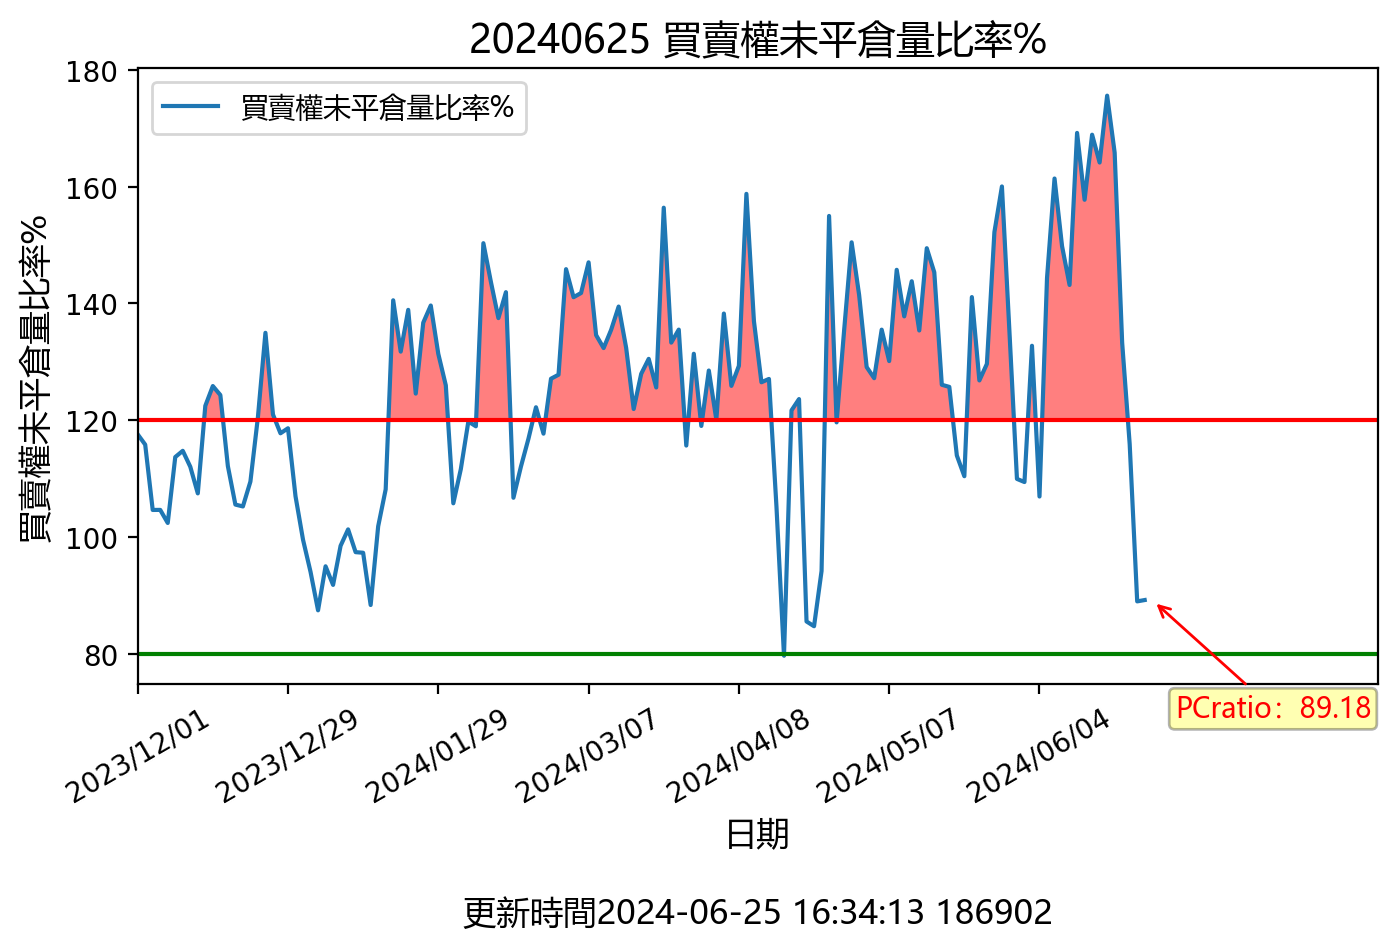
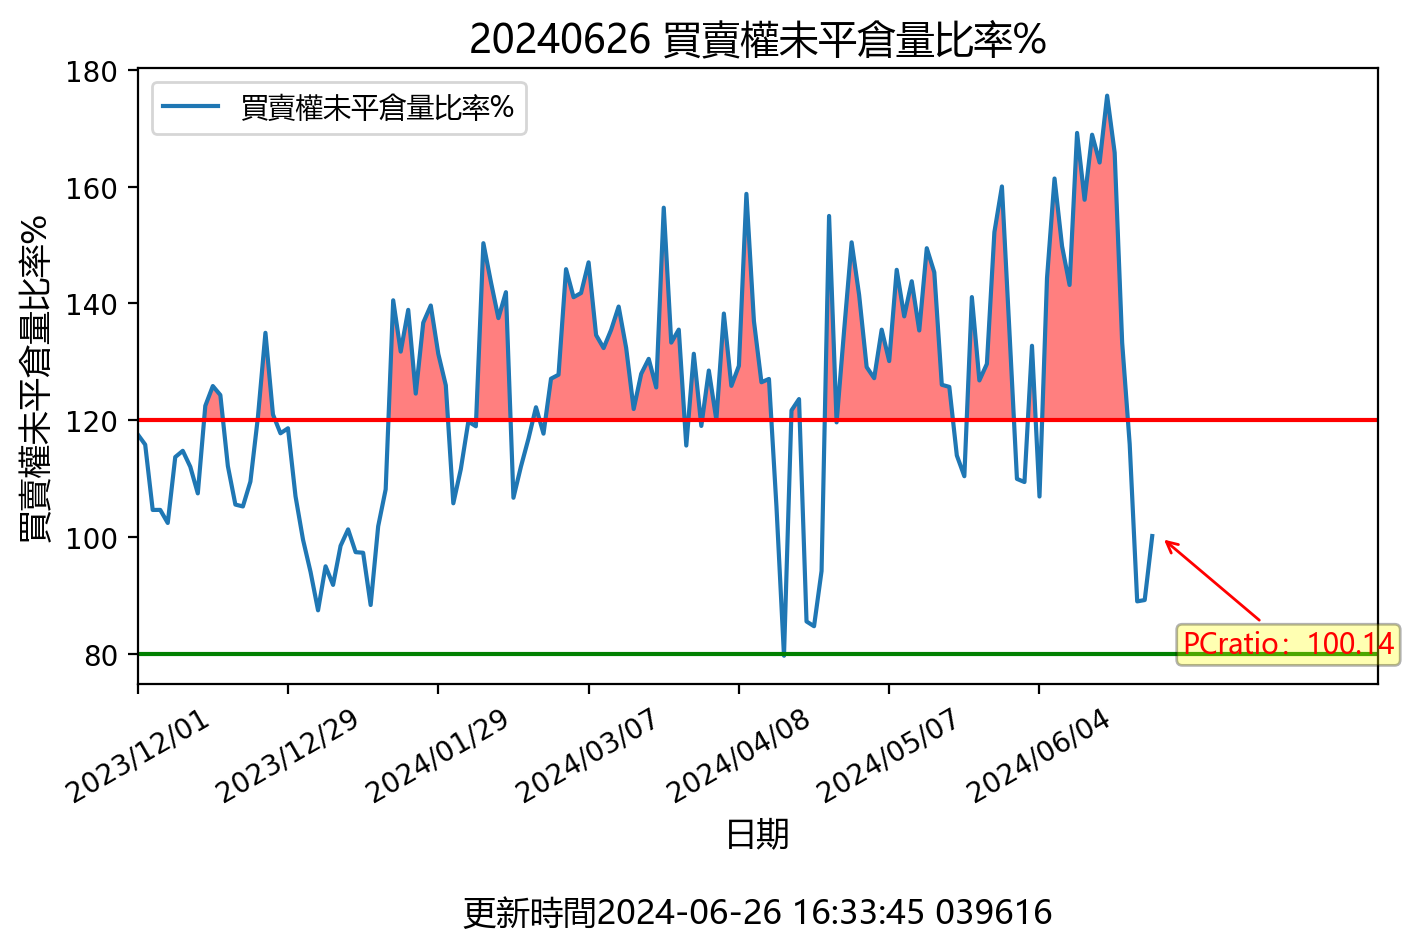
更新時間: Wed Jun 26 16:33:56 CST 2024

diff --git a/README.md b/README.md
@@ -1,9 +1,9 @@
-## 20240625 台指期「預估換倉成本」
+## 20240626 台指期「預估換倉成本」
 ![](txfcost.png)
 
-## 20240625 台指期「散戶小台多空比」
+## 20240626 台指期「散戶小台多空比」
 ![](bbiri.png)
 
-## 20240625 台指選擇權「Put/Call Ratios」
+## 20240626 台指選擇權「Put/Call Ratios」
 ![](pcratio.png)
 
